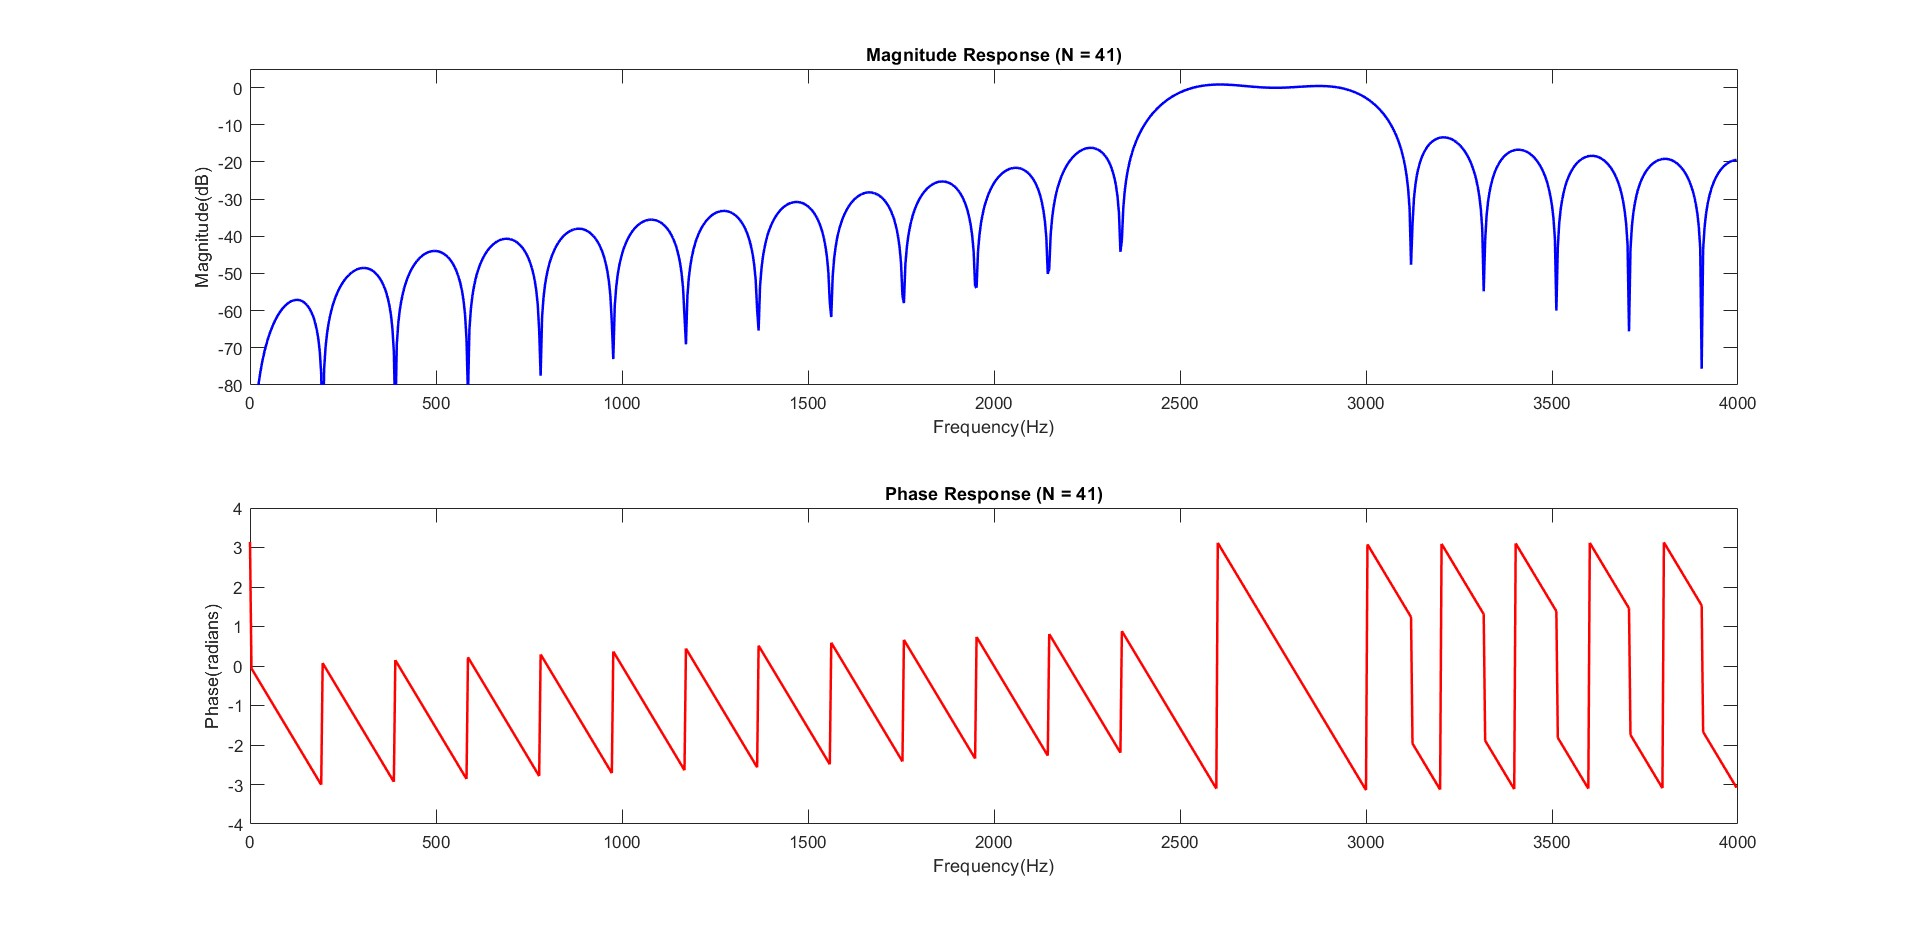
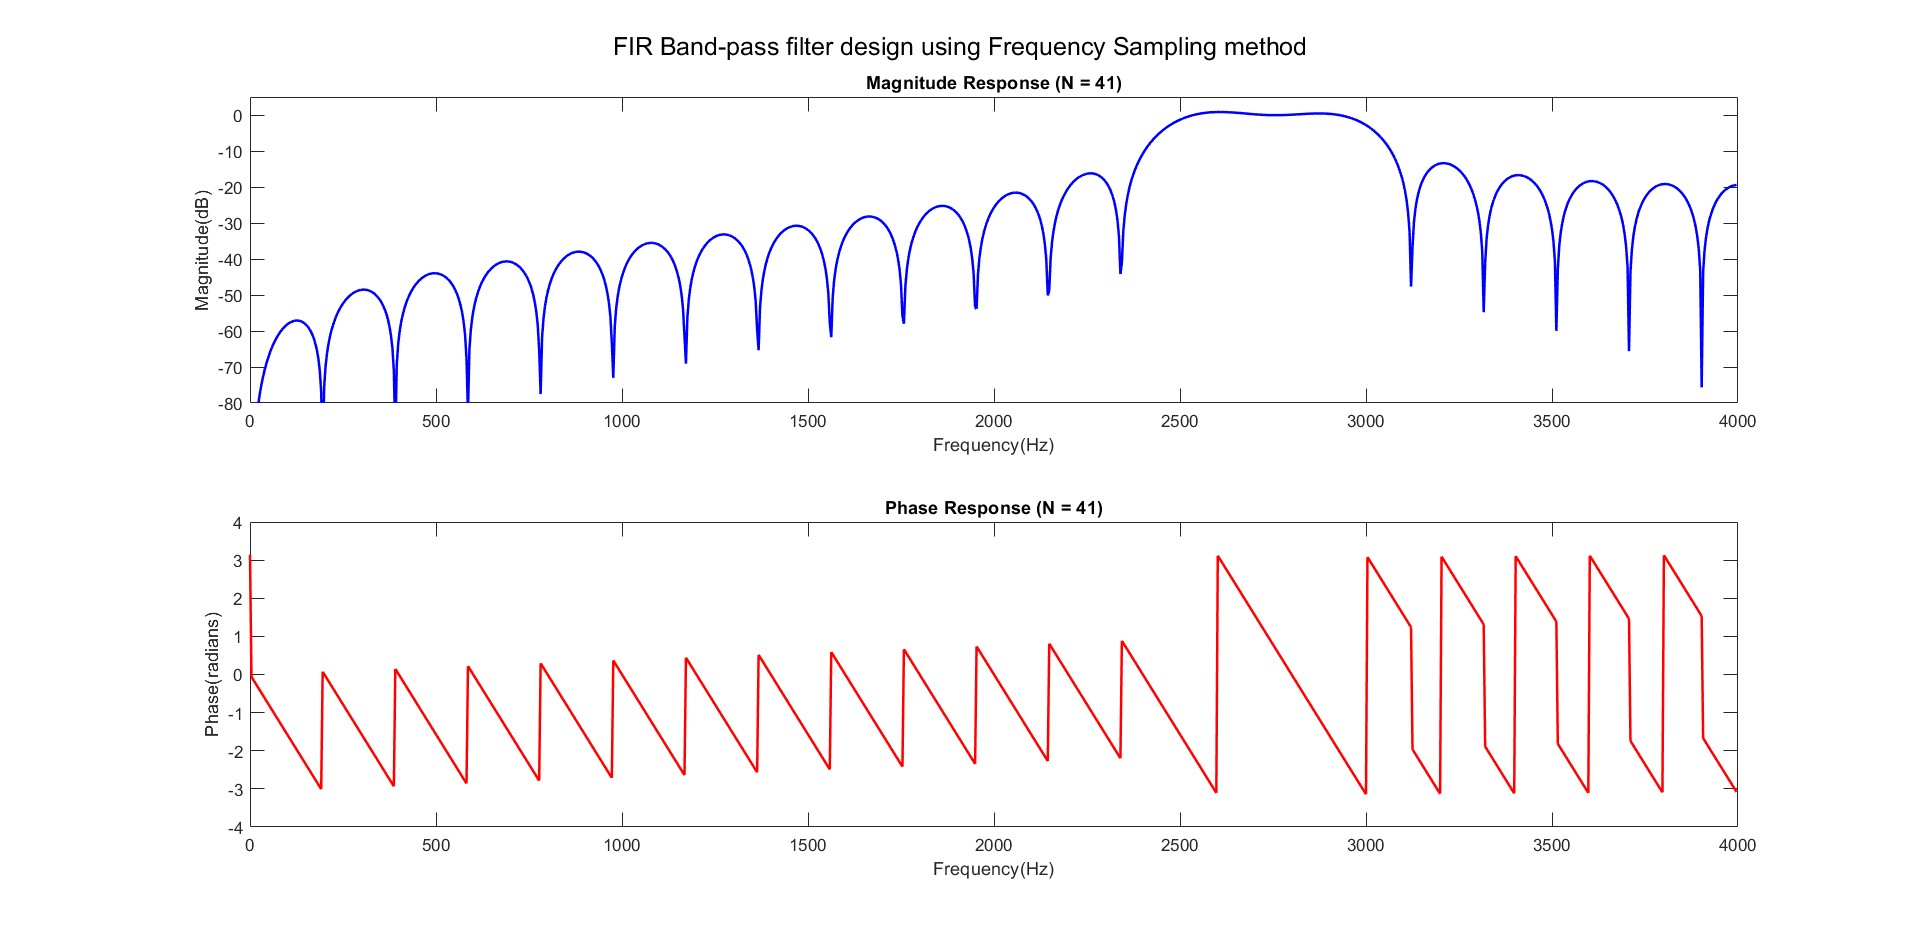
Add files via upload

diff --git a/FIR_band_pass_window.m b/FIR_band_pass_window.m
@@ -11,7 +11,7 @@ wl = 2*pi*(fh/fs);
 % normalized upper cutoff frequency
 wh = 2*pi*(fl/fs);
 % filter length
-N=41;
+N=21;
 % N = input('Enter filter length: ');
 % filter order
 M = N-1;
@@ -70,3 +70,5 @@ ylabel('Phase(radians)');
 title(['Phase Response (N = ',num2str(N),')']);
 legend('Rectangular','Hamming','Hann','Blackman');
 hold off;
+
+sgtitle("FIR Band-pass filter design using Window method");

diff --git a/FIR_low_pass_window.m b/FIR_low_pass_window.m
@@ -5,7 +5,7 @@ fs = 8e3;
 % cutoff frequency
 fc = 2e3;
 % filter length 
-N=41;
+N=21;
 % N = input('Enter filter length: ');
 % normalized cutoff frequency
 wc = 2*pi*(fc/fs);
@@ -72,3 +72,5 @@ ylabel('Phase(radians)');
 title(['Phase Response (N = ',num2str(N),')']);
 legend('Rectangular','Hamming','Hann','Blackman');
 hold off;
+
+sgtitle("FIR Low-pass filter design using Window method");

diff --git a/FIR_low_pass_freq_sampling.m b/FIR_low_pass_freq_sampling.m
@@ -4,7 +4,7 @@ fs = 8e3;
 % cutoff frequency
 fc = 2e3;
 % filter length 
-N=41;
+N=21;
 % filter order
 M = N-1;
 % cutoff index in frequency domain
@@ -45,3 +45,5 @@ plot(w,angle(Hf), 'r', 'LineWidth',1.5);
 xlabel('Frequency(Hz)');
 ylabel('Phase(radians)');
 title(['Phase Response (N = ',num2str(N),')']);
+
+sgtitle("FIR Low-pass filter design using Frequency Sampling method");

diff --git a/FIR_band_pass_freq_sampling.m b/FIR_band_pass_freq_sampling.m
@@ -6,7 +6,7 @@ fl = 2.5e3;
 % upper cutoff frequency
 fu = 3e3;
 % filter length 
-N=41;
+N=21;
 % filter order
 M = N-1;
 % cutoff index in frequency domain
@@ -49,5 +49,4 @@ xlabel('Frequency(Hz)');
 ylabel('Phase(radians)');
 title(['Phase Response (N = ',num2str(N),')']);
 
-
-
+sgtitle("FIR Band-pass filter design using Frequency Sampling method");
